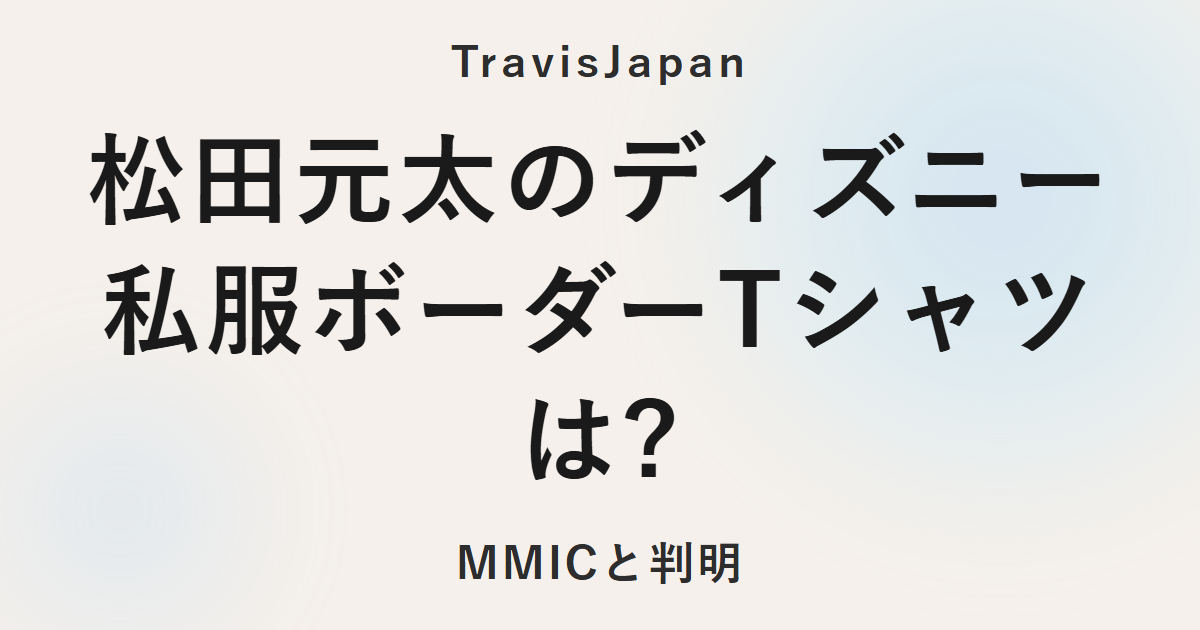
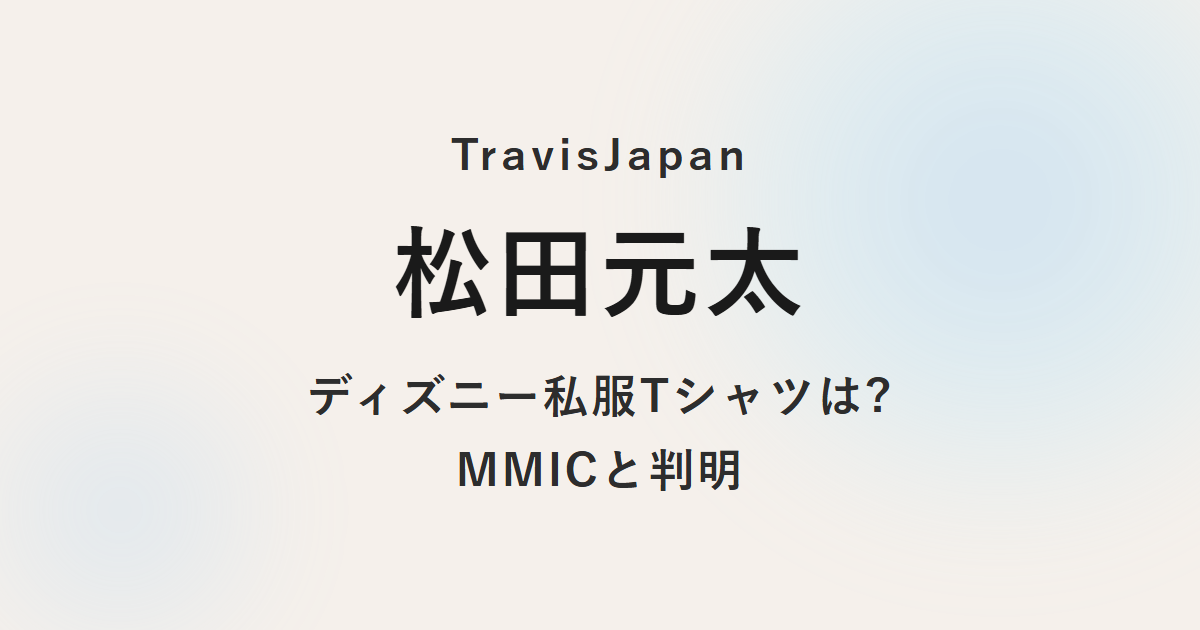
アイキャッチを人物名(松田元太)中心の見やすいレイアウトに修正

diff --git a/update_matsuda_genta_eyecatch_replace.py b/update_matsuda_genta_eyecatch_replace.py
@@ -1,0 +1,75 @@
+import base64, json, os, mimetypes, urllib.request
+from pathlib import Path
+
+ROOT = Path(__file__).parent
+
+def load_env(path):
+    env = {}
+    for line in path.read_text(encoding="utf-8").splitlines():
+        line = line.strip()
+        if not line or line.startswith("#") or "=" not in line:
+            continue
+        k, v = line.split("=", 1)
+        env[k.strip()] = v.strip()
+    return env
+
+ENV = {**load_env(ROOT / ".env"), **os.environ}
+SITE = ENV["WP_AUDITION_URL"].rstrip("/")
+USER = ENV["WP_AUDITION_USERNAME"]
+APP_PW = ENV["WP_AUDITION_APP_PASSWORD"]
+AUTH = base64.b64encode(f"{USER}:{APP_PW}".encode()).decode()
+HEADERS_JSON = {"Authorization": f"Basic {AUTH}", "Content-Type": "application/json"}
+
+def upload_media(filepath, filename, alt=None):
+    data = Path(filepath).read_bytes()
+    mime = mimetypes.guess_type(filename)[0] or "image/jpeg"
+    req = urllib.request.Request(
+        f"{SITE}/wp-json/wp/v2/media",
+        data=data,
+        method="POST",
+        headers={
+            "Authorization": f"Basic {AUTH}",
+            "Content-Type": mime,
+            "Content-Disposition": f'attachment; filename="{filename}"',
+        },
+    )
+    with urllib.request.urlopen(req, timeout=60) as r:
+        media = json.loads(r.read())
+    if alt:
+        try:
+            req2 = urllib.request.Request(
+                f"{SITE}/wp-json/wp/v2/media/{media['id']}",
+                data=json.dumps({"alt_text": alt, "title": alt}).encode("utf-8"),
+                method="POST",
+                headers=HEADERS_JSON,
+            )
+            with urllib.request.urlopen(req2, timeout=30) as r:
+                json.loads(r.read())
+        except Exception as e:
+            print("warn: could not set alt text", e)
+    return media
+
+def set_featured(post_id, media_id):
+    req = urllib.request.Request(
+        f"{SITE}/wp-json/wp/v2/posts/{post_id}",
+        data=json.dumps({"featured_media": media_id}).encode("utf-8"),
+        method="POST",
+        headers=HEADERS_JSON,
+    )
+    with urllib.request.urlopen(req, timeout=30) as r:
+        return json.loads(r.read())
+
+if __name__ == "__main__":
+    print("Uploading new necklace eyecatch...")
+    necklace = upload_media(ROOT / "images" / "matsuda_genta_disney_necklace_eyecatch.png",
+                             "matsuda_genta_disney_necklace_eyecatch_v2.png",
+                             alt="松田元太のディズニー私服ネックレスはティファニー?価格は?")
+    set_featured(850, necklace["id"])
+    print("post 850 featured ->", necklace["id"])
+
+    print("Uploading new t-shirt eyecatch...")
+    tshirt = upload_media(ROOT / "images" / "matsuda_genta_disney_border_tshirt_eyecatch.png",
+                           "matsuda_genta_disney_border_tshirt_eyecatch_v2.png",
+                           alt="松田元太のディズニー私服ボーダーTシャツはMMIC?価格は?")
+    set_featured(859, tshirt["id"])
+    print("post 859 featured ->", tshirt["id"])
